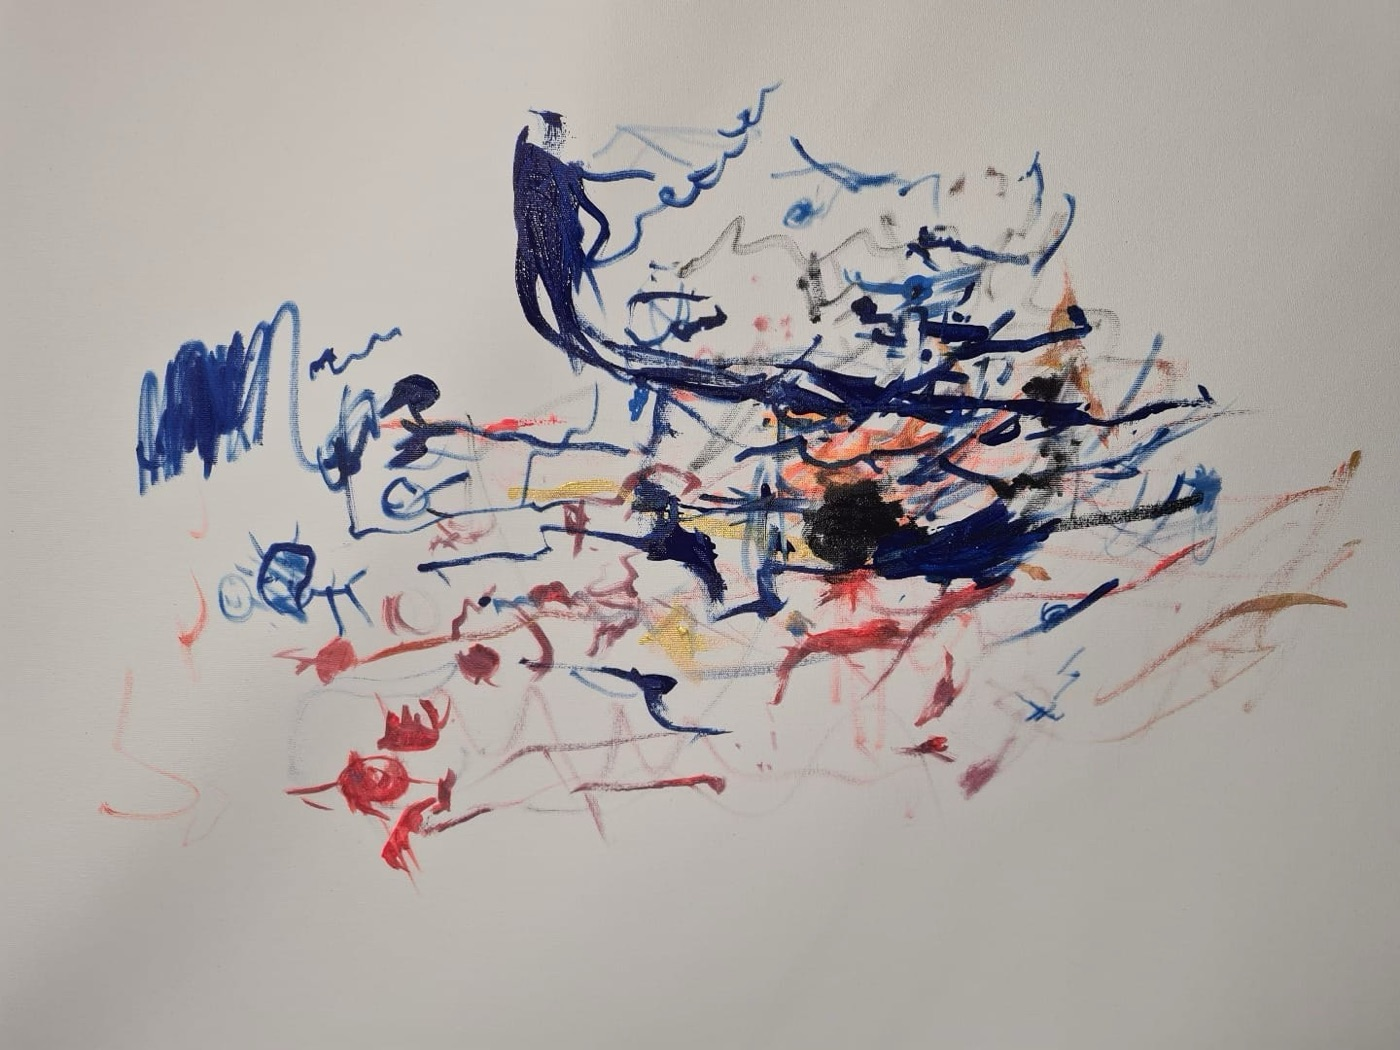
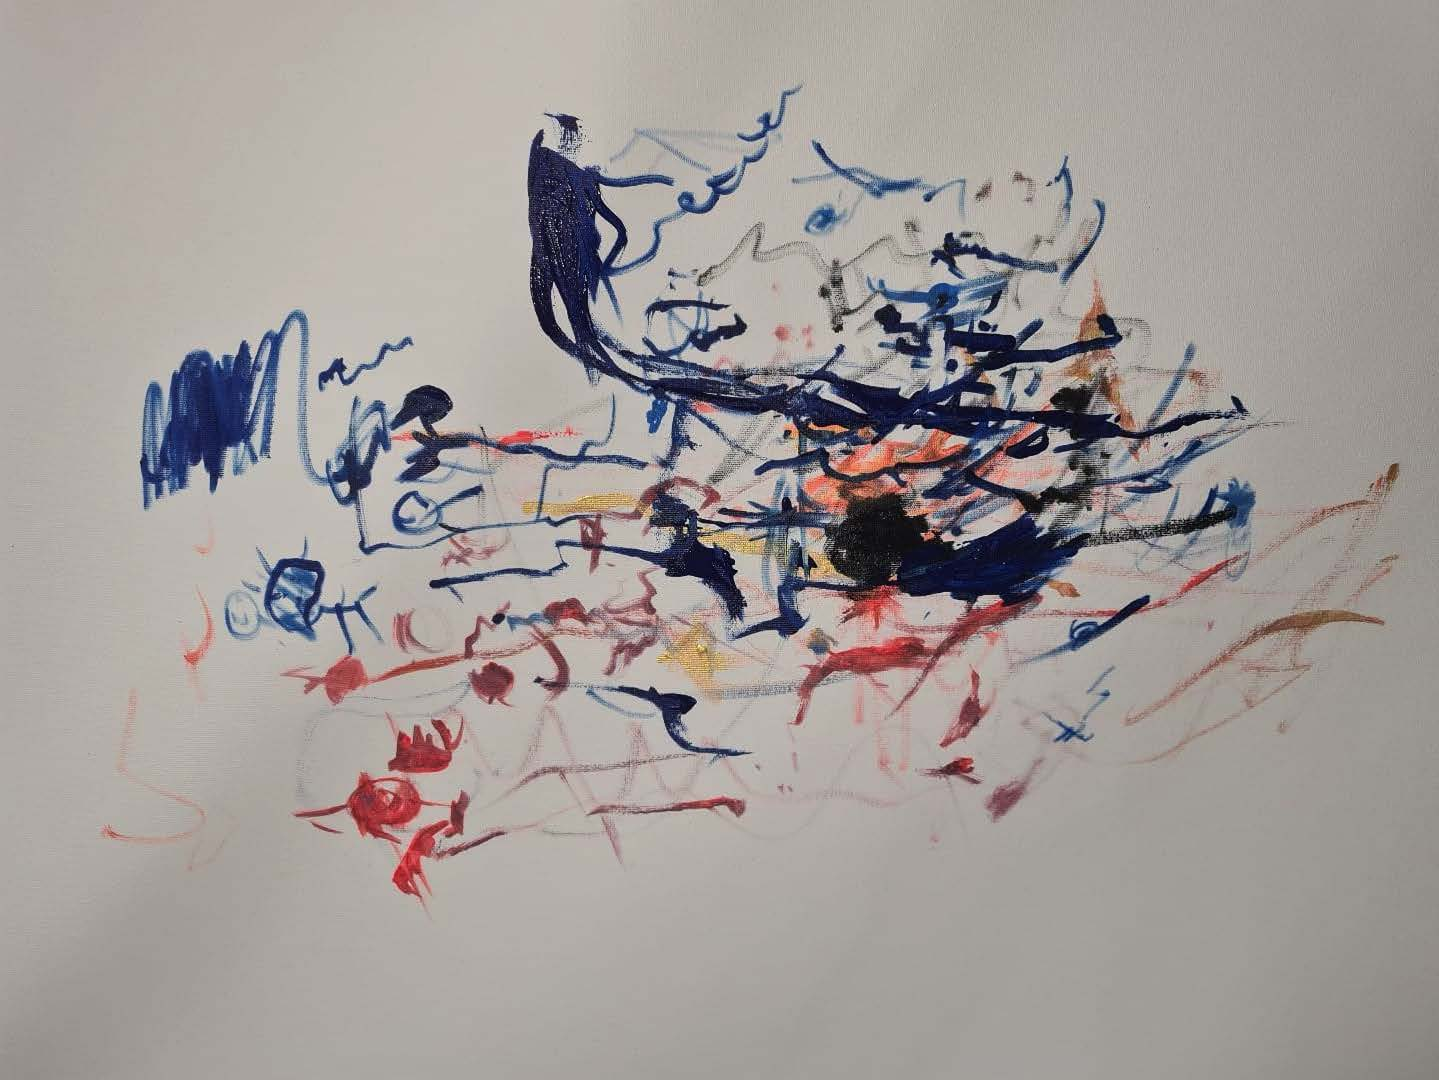
Home: obra de Gabriel N. na horizontal, sem cortes

diff --git a/app/page.tsx b/app/page.tsx
@@ -20,8 +20,8 @@ export default function HomePage() {
       <section className="pt-20 sm:pt-28">
         <Container className="grid items-center gap-10 lg:grid-cols-2 lg:gap-14">
           <Reveal className="relative">
-            <div className="relative aspect-[4/3.4] overflow-hidden rounded-[32px] bg-white">
-              <Image src="/img/obra-gabriel-n.jpg" alt="Pintura abstrata com traços em azul, vermelho e amarelo sobre fundo branco" fill sizes="(min-width: 1024px) 540px, 100vw" className="object-cover" />
+            <div className="relative aspect-[1439/1080] overflow-hidden rounded-[32px] bg-white">
+              <Image src="/img/obra-gabriel-n.jpg" alt="Pintura abstrata com traços em azul, vermelho, preto e amarelo sobre tela branca" fill sizes="(min-width: 1024px) 540px, 100vw" className="object-contain" />
             </div>
             <Sticker className="-bottom-4 right-6">Obra de Gabriel N.</Sticker>
           </Reveal>
